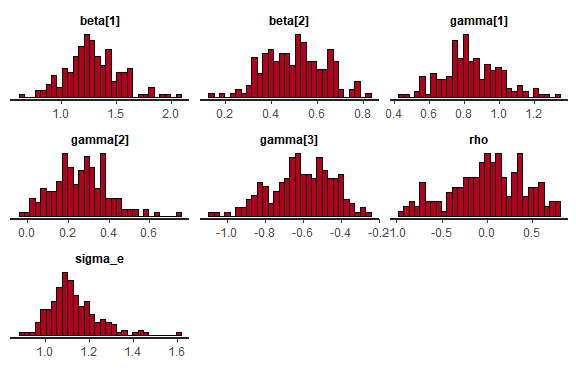
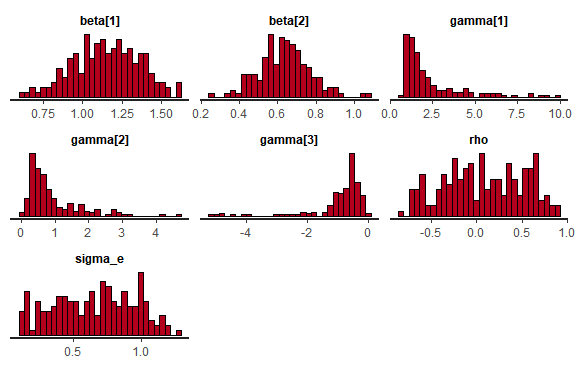
update READEME file

diff --git a/README.md b/README.md
@@ -3,24 +3,27 @@
 
 # HeckmanStan
 
-[![CRAN_Status_Badge]()]()
+<!--[![CRAN_Status_Badge]()]()-->
 
-The goal of skewlmm is to fit skew robust linear mixed models, using
-scale mixture of skew-normal linear mixed models with possible
-within-subject dependence structure, using an EM-type algorithm. In
-addition, some tools for model adequacy evaluation are available.
+The Heckman selection model is widely employed in econometric analysis
+and other social sciences, to address sample selection issues in data
+modeling. Its fundamental assumption hinges on the normality of error
+terms in both the outcome and the sample selection equations.
 
-For more information about the model formulation and estimation, please
-see Schumacher, F. L., Lachos, V. H., and Matos, L. A. (2021). Scale
-mixture of skew‐normal linear mixed models with within‐subject serial
-dependence. *Statistics in Medicine*. DOI:
-[10.1002/sim.8870](https://doi.org/10.1002/sim.8870).
+In this work, we explore these selection models using a Bayesian
+approach facilitated by the Stan software. Our objective is to compare
+the performance of the normal, Student’s-t and contaminated normal,
+aiming to address the complexities introduced by non-standard error
+distributions.
+
+<!--For more information about the model formulation and estimation, please see
+Schumacher, F. L., Lachos, V. H., and Matos, L. A. (2021). Scale mixture of skew‐normal linear mixed models with within‐subject serial dependence. *Statistics in Medicine*. DOI: [10.1002/sim.8870](https://doi.org/10.1002/sim.8870).-->
 
 ## Installation
 
 <!-- You can install the released version of lmmsmsn from [CRAN](https://CRAN.R-project.org) with: -->
 
-You can install skewlmm from GitHub with:
+You can install HeckmanStan from GitHub with:
 
 ``` r
 remotes::install_github("heeju-lim/HeckmanStan")
@@ -35,8 +38,9 @@ install.packages("HeckmanStan")
 
 ## Example
 
-This is a basic example which shows you how to fit the Heckman Selection
-model using bayesian approach:
+This is a basic example which shows you how to fit the Heckman Stan
+Model when data is generated from the normal distribution and fit the
+Heckmans Stan model using the contaminated normal distribution.
 
 ``` r
 library(HeckmanStan)
@@ -53,12 +57,12 @@ data<-geraHeckman(x,w,beta,gama,sigma2,rho,nu,type=type)
 y<-data$y
 cc<-data$cc
 # Fit Heckman Normal Stan model
-fit.n_stan <- HeckmanStan(y, x, w, cc, family="Normal", thin = 5, chains = 1, iter = 1000, warmup = 100)
+fit.n_stan <- HeckmanStan(y, x, w, cc, family="CN", thin = 5, chains = 1, iter = 1000, warmup = 100)
 #> 
 #> SAMPLING FOR MODEL 'anon_model' NOW (CHAIN 1).
 #> Chain 1: 
-#> Chain 1: Gradient evaluation took 8.3e-05 seconds
-#> Chain 1: 1000 transitions using 10 leapfrog steps per transition would take 0.83 seconds.
+#> Chain 1: Gradient evaluation took 0.000162 seconds
+#> Chain 1: 1000 transitions using 10 leapfrog steps per transition would take 1.62 seconds.
 #> Chain 1: Adjust your expectations accordingly!
 #> Chain 1: 
 #> Chain 1: 
@@ -83,9 +87,9 @@ fit.n_stan <- HeckmanStan(y, x, w, cc, family="Normal", thin = 5, chains = 1, it
 #> Chain 1: Iteration: 900 / 1000 [ 90%]  (Sampling)
 #> Chain 1: Iteration: 1000 / 1000 [100%]  (Sampling)
 #> Chain 1: 
-#> Chain 1:  Elapsed Time: 0.052 seconds (Warm-up)
-#> Chain 1:                0.424 seconds (Sampling)
-#> Chain 1:                0.476 seconds (Total)
+#> Chain 1:  Elapsed Time: 0.593 seconds (Warm-up)
+#> Chain 1:                4.427 seconds (Sampling)
+#> Chain 1:                5.02 seconds (Total)
 #> Chain 1:
 #> Warning: Bulk Effective Samples Size (ESS) is too low, indicating posterior means and medians may be unreliable.
 #> Running the chains for more iterations may help. See
@@ -98,21 +102,24 @@ fit.n_stan <- HeckmanStan(y, x, w, cc, family="Normal", thin = 5, chains = 1, it
 #> Posterior mean(Mean), standard deviation(Sd) and HPD interval
 #> -------------------------------------------------------------
 #>              Mean      Sd  HPD(95%) Lower Upper Bound
-#> beta[1]   1.27885 0.27396         0.79400     1.75725
-#> beta[2]   0.49754 0.14095         0.29748     0.78284
-#> gamma[1]  0.82469 0.20499         0.56272     1.23160
-#> gamma[2]  0.23784 0.22621        -0.00464     0.51124
-#> gamma[3] -0.58268 0.25725        -0.93358    -0.29479
-#> rho      -0.00194 0.40346        -0.82199     0.68585
-#> sigma_e   1.12353 0.11410         0.94474     1.36140
-#> sigma2    1.27526 0.26408         0.89254     1.85342
+#> beta[1]   1.15803 0.22358         0.73111     1.53031
+#> beta[2]   0.63394 0.13277         0.41140     0.92528
+#> gamma[1]  2.30231 1.73986         0.74348     6.12170
+#> gamma[2]  0.89811 0.77234         0.05389     2.76841
+#> gamma[3] -0.88789 0.87965        -2.64648     0.02011
+#> rho       0.08073 0.43909        -0.69911     0.79715
+#> sigma_e   0.64649 0.29600         0.11695     1.10297
+#> nu1       0.67827 0.26744         0.09339     0.97853
+#> nu2       0.31764 0.26484         0.01145     0.86242
+#> sigma2    0.50512 0.38861         0.01368     1.21655
 #> -------------------------------------------------------------
+#> Warning: Some Pareto k diagnostic values are too high. See help('pareto-k-diagnostic') for details.
 #> Warning: 
-#> 1 (1.0%) p_waic estimates greater than 0.4. We recommend trying loo instead.
+#> 2 (2.0%) p_waic estimates greater than 0.4. We recommend trying loo instead.
 #> Model selection criteria
 #> ----------------------------------------
-#>          Looic     WAIC       CPO
-#> Value 330.8016 330.6705 -165.3123
+#>         Looic    WAIC       CPO
+#> Value 336.628 336.469 -168.4161
 #> ----------------------------------------
 #> 
 ```
@@ -125,18 +132,18 @@ print(fit.n_stan[[1]],par=qoi)
 #> post-warmup draws per chain=180, total post-warmup draws=180.
 #> 
 #>            mean se_mean   sd   2.5%    25%    50%    75%  97.5% n_eff Rhat
-#> beta[1]    1.28    0.02 0.24   0.85   1.13   1.26   1.43   1.80   136 1.01
-#> beta[2]    0.50    0.01 0.13   0.27   0.40   0.51   0.60   0.76   270 1.00
-#> gamma[1]   0.84    0.01 0.16   0.55   0.74   0.82   0.95   1.20   143 1.00
-#> gamma[2]   0.26    0.01 0.13   0.03   0.18   0.26   0.35   0.53   153 1.00
-#> gamma[3]  -0.61    0.01 0.16  -0.93  -0.71  -0.60  -0.49  -0.34   132 0.99
-#> sigma_e    1.13    0.01 0.11   0.95   1.06   1.10   1.18   1.39   196 1.00
-#> sigma2     1.28    0.02 0.26   0.91   1.12   1.22   1.39   1.92   192 1.00
-#> rho        0.01    0.04 0.41  -0.81  -0.25   0.03   0.31   0.70   134 1.02
-#> EAIC     337.49    0.27 3.48 332.21 334.72 336.98 339.68 344.54   166 1.02
-#> EBIC     355.73    0.27 3.48 350.45 352.96 355.22 357.92 362.78   166 1.02
+#> beta[1]    1.15    0.02 0.21   0.74   1.01   1.15   1.31   1.52   142 1.00
+#> beta[2]    0.63    0.01 0.13   0.40   0.55   0.64   0.71   0.89   202 1.01
+#> gamma[1]   2.27    0.25 1.76   0.88   1.18   1.60   2.58   7.82    49 1.02
+#> gamma[2]   0.89    0.09 0.77   0.17   0.39   0.64   1.06   2.94    72 1.00
+#> gamma[3]  -0.89    0.11 0.91  -4.31  -0.99  -0.62  -0.45  -0.16    67 1.02
+#> sigma_e    0.65    0.03 0.29   0.14   0.41   0.67   0.90   1.17    78 1.00
+#> sigma2     0.51    0.04 0.39   0.02   0.17   0.45   0.80   1.36    92 0.99
+#> rho        0.08    0.03 0.44  -0.70  -0.25   0.07   0.47   0.79   168 1.00
+#> EAIC     345.81    0.30 3.51 340.83 343.31 345.24 347.54 353.62   135 1.00
+#> EBIC     369.26    0.30 3.51 364.27 366.76 368.68 370.99 377.07   135 1.00
 #> 
-#> Samples were drawn using NUTS(diag_e) at Tue Oct 22 18:23:57 2024.
+#> Samples were drawn using NUTS(diag_e) at Tue Oct 22 18:42:58 2024.
 #> For each parameter, n_eff is a crude measure of effective sample size,
 #> and Rhat is the potential scale reduction factor on split chains (at 
 #> convergence, Rhat=1).
@@ -145,19 +152,21 @@ print(fit.n_stan[[1]],par=qoi)
 ``` r
 print(fit.n_stan[[2]])
 #> [[1]]
-#>                  Mean        Sd  HPD(95%) Lower Upper Bound
-#> beta[1]   1.278845783 0.2739615     0.794002748   1.7572510
-#> beta[2]   0.497538298 0.1409466     0.297481796   0.7828414
-#> gamma[1]  0.824691394 0.2049882     0.562717297   1.2315960
-#> gamma[2]  0.237836930 0.2262101    -0.004637697   0.5112411
-#> gamma[3] -0.582682024 0.2572459    -0.933581977  -0.2947870
-#> rho      -0.001937362 0.4034588    -0.821986105   0.6858459
-#> sigma_e   1.123525929 0.1140995     0.944742267   1.3614039
-#> sigma2    1.275264107 0.2640751     0.892537950   1.8534205
+#>                 Mean        Sd  HPD(95%) Lower Upper Bound
+#> beta[1]   1.15803223 0.2235762      0.73111230  1.53030916
+#> beta[2]   0.63394482 0.1327733      0.41139882  0.92528251
+#> gamma[1]  2.30231085 1.7398601      0.74347670  6.12169712
+#> gamma[2]  0.89811077 0.7723436      0.05388669  2.76840545
+#> gamma[3] -0.88789374 0.8796487     -2.64647972  0.02010856
+#> rho       0.08072884 0.4390871     -0.69910687  0.79715153
+#> sigma_e   0.64648861 0.2959963      0.11695382  1.10297448
+#> nu1       0.67826543 0.2674404      0.09338587  0.97852764
+#> nu2       0.31763765 0.2648374      0.01144771  0.86242433
+#> sigma2    0.50512327 0.3886078      0.01367819  1.21655269
 #> 
 #> [[2]]
-#>          Looic     WAIC       CPO
-#> Value 330.8016 330.6705 -165.3123
+#>         Looic    WAIC       CPO
+#> Value 336.628 336.469 -168.4161
 ```
 
 ``` r
